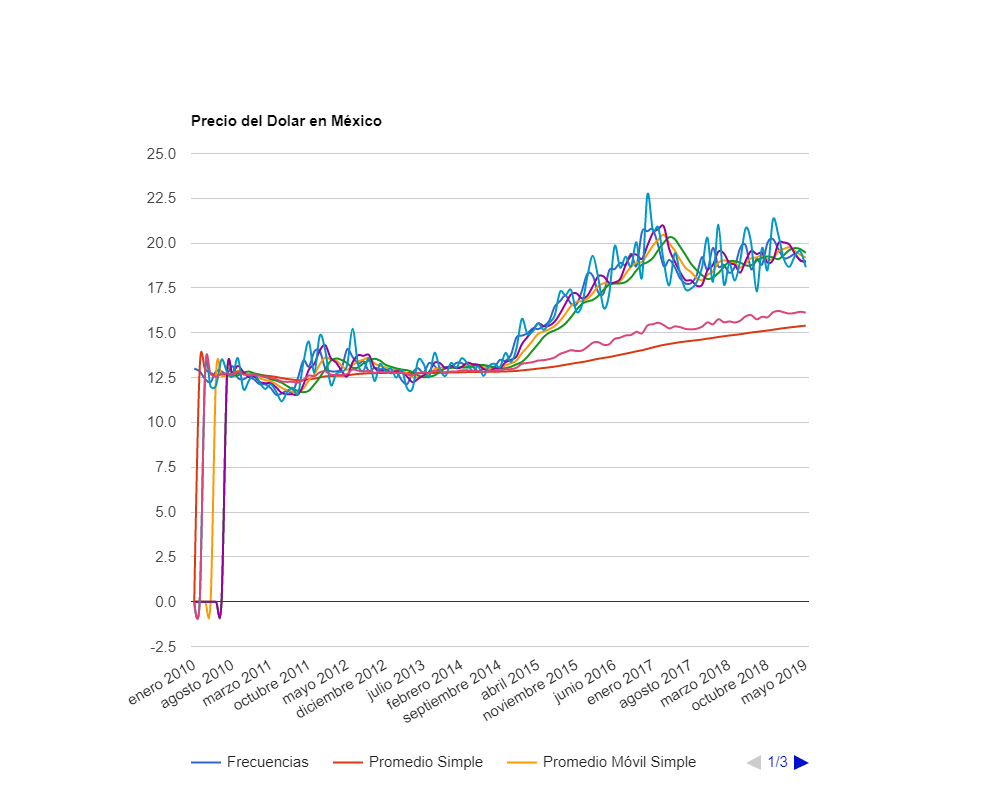
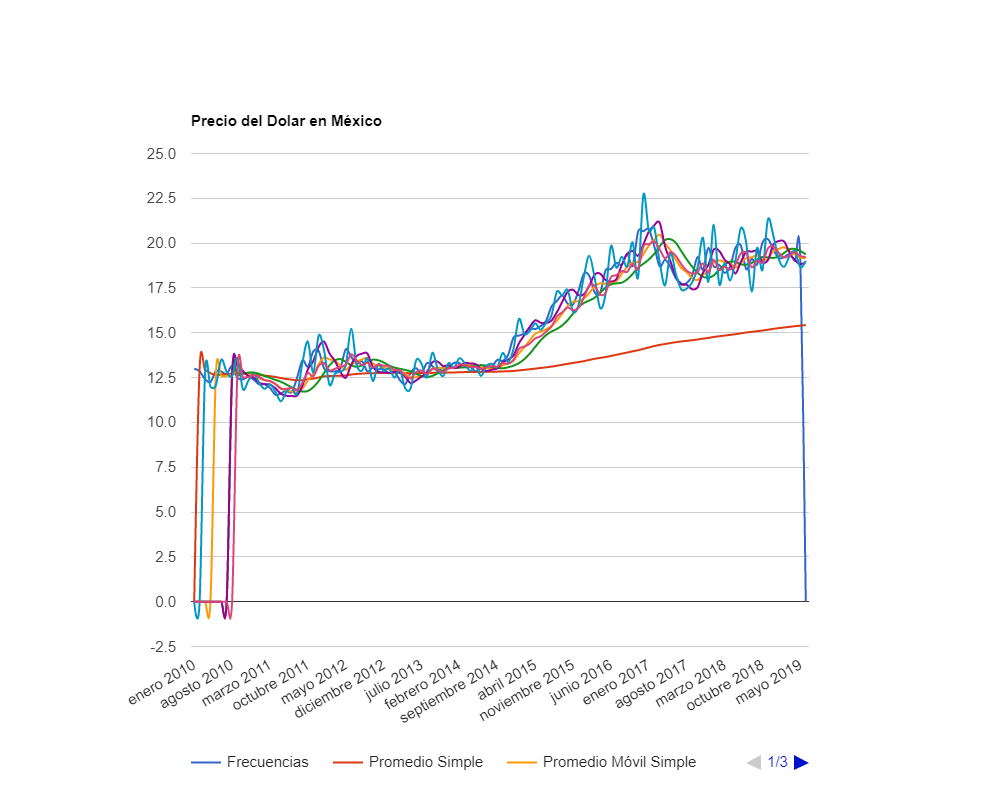
Dolar liston de tu pelo

Changed region(s): [[0.186, 0.25, 0.806, 0.7812], [0.186, 0.8125, 0.806, 0.9062]]

diff --git a/dss/templates/graficaDolar.html b/dss/templates/graficaDolar.html
@@ -2,7 +2,7 @@
 <!DOCTYPE html>
 <html lang="en">
 <head>
-	<title>Gráfica</title>
+	<title>Gráfica Dolar</title>
 	<meta charset="UTF-8">
 	<meta name="viewport" content="width=device-width, initial-scale=1">
 <!--===============================================================================================-->	
@@ -177,11 +177,10 @@
     <script class="modal">
         function alert(){
           swal({
-            title: "Se ha generado y descargado tu reporte en formato PDF",
-            text: "Revisa tu carpeta de descargas",
+            title: "Se abrirá una nueva página donde verás el reporte.",
+            text: "Una vez abierto podrás descargarlo en formato pdf.",
             icon: "success",
             confirm: "Aceptar"
-        
           })
         
         }
@@ -208,6 +207,7 @@
 		<div class="container-login ">
 			<div class="wrap-login">
         <h3>La mejor opcion es {{mejor.Nombre}} con un promedio de errores de {{mejor.valor}}</h3>
+        <h4>Tipo de comportamiento: <strong>Aleatorio</strong></h4>
 				<div class="centrar">
 						<div class="grafica" id="curve_chart" style="width: 1000px; height: 800px;"></div>
 				</div>

diff --git a/dss/templates/tablasDolar.html b/dss/templates/tablasDolar.html
@@ -2,7 +2,7 @@
 <!DOCTYPE html>
 <html lang="en">
 <head>
-	<title>Datos</title>
+	<title>Datos Dolar</title>
 	<meta charset="UTF-8">
 	<meta name="viewport" content="width=device-width, initial-scale=1">
 <!--===============================================================================================-->	
@@ -29,8 +29,9 @@
 	<nav class="navbar navbar-light nav">
 	  <a class="navbar-brand">SISTEMA DSS ORIENTADO A LOS DATOS</a>
 	  <form class="form-inline">
-	    <button class="btn " type="submit">Página principal</button>
-	    <button class="btn " type="submit">Cerrar sesión</button>
+	    <a href="{% url 'usuario:acerca' %}" class="btnbar" >Acerca de</a>
+	    <a href="{% url 'usuario:variables' request.user.username %}" class="btnbar">Página principal</a>
+	    <a href="{% url 'usuario:logout' %}" class="btnbar">Cerrar sesión</a>
 	  </form>
 	</nav>
 	

diff --git a/dss/templates/configuraciones.html b/dss/templates/configuraciones.html
@@ -2,7 +2,7 @@
 <!DOCTYPE html>
 <html lang="en">
 <head>
-	<title>Configuraciones</title>
+	<title>Configuraciones PIB</title>
 	<meta charset="UTF-8">
 	<meta name="viewport" content="width=device-width, initial-scale=1">
 <!--===============================================================================================-->	
@@ -40,6 +40,7 @@
 				<form class="login-form validate-form centrado" style="margin-top: -100px !important; margin-bottom: 50px;" method="POST">
 					{% csrf_token %}
 					<span class="login-form-title" style="font-family: Montserrat-Bold; color: #4E5B6D;">
+						PIB <br>
 						Ingrese las configuraciones
 					</span>
 

diff --git a/dss/templates/configuracionesDolar.html b/dss/templates/configuracionesDolar.html
@@ -2,7 +2,7 @@
 <!DOCTYPE html>
 <html lang="en">
 <head>
-	<title>Configuraciones</title>
+	<title>Configuraciones Dolar</title>
 	<meta charset="UTF-8">
 	<meta name="viewport" content="width=device-width, initial-scale=1">
 <!--===============================================================================================-->	

diff --git a/dss/templates/grafica.html b/dss/templates/grafica.html
@@ -2,7 +2,7 @@
 <!DOCTYPE html>
 <html lang="en">
 <head>
-	<title>Gráfica</title>
+	<title>Gráfica PIB</title>
 	<meta charset="UTF-8">
 	<meta name="viewport" content="width=device-width, initial-scale=1">
 <!--===============================================================================================-->	

diff --git a/dss/templates/tablas.html b/dss/templates/tablas.html
@@ -2,7 +2,7 @@
 <!DOCTYPE html>
 <html lang="en">
 <head>
-	<title>Datos</title>
+	<title>Datos PIB</title>
 	<meta charset="UTF-8">
 	<meta name="viewport" content="width=device-width, initial-scale=1">
 <!--===============================================================================================-->	

diff --git a/dss/templates/pdfDolar.html b/dss/templates/pdfDolar.html
@@ -3,7 +3,7 @@
 <html>
 <head>
     <meta charset="utf-8">
-    <title>Reporte Alumno</title>
+    <title>Reporte Dolar</title>
     <link rel="stylesheet" href="{% static 'css/estilopdf.css' %}">
     <style type="text/css">
         @page {

diff --git a/dss/templates/pdfPIB.html b/dss/templates/pdfPIB.html
@@ -3,7 +3,7 @@
 <html>
 <head>
     <meta charset="utf-8">
-    <title>Reporte Alumno</title>
+    <title>Reporte PIB</title>
     <link rel="stylesheet" href="{% static 'css/estilopdf.css' %}">
     <style type="text/css">
         @page {

diff --git a/dss/static/css/main.css b/dss/static/css/main.css
@@ -363,7 +363,7 @@ iframe {
 
 @media (max-width: 992px) {
 	.wrap-login {
-		padding: 177px 90px 33px 85px;
+		padding: 100px 90px 33px 85px;
 	}
 
 	.login-pic {

diff --git a/dss/app/Usuario/views.py b/dss/app/Usuario/views.py
@@ -102,7 +102,10 @@ def config_dolar(request, username):
             for d in dolar:
                 periodos.append(d.periodo)
                 frecuencias.append(float(d.frecuencia))
-
+            periodos.append('junio 2019')
+            frecuencias.append(0)
+            print(len(frecuencias))
+            print(len(periodos))
             acumuladorPS = 0
             contador = 1
             ps = []
@@ -110,8 +113,8 @@ def config_dolar(request, username):
             k = int(k)
             j = int(j)
             m = int(m)
-            for i in range(1, int(n)):
-                acumuladorPS = acumuladorPS + (dolar[i - 1].frecuencia)
+            for i in range(0, len(frecuencias) - 1):
+                acumuladorPS = acumuladorPS + (dolar[i].frecuencia)
                 ps.append(truncate((acumuladorPS / contador),5))
                 resta = abs(float(dolar[i].frecuencia)-float((acumuladorPS / contador)))
                 eapsd.append(truncate(resta, 5))
@@ -121,7 +124,7 @@ def config_dolar(request, username):
             acumuladorPSM = 0
             pms = []
             eapms = [] # errores absolutos
-            for x in range(int(k)+1, int(n)+1):
+            for x in range(int(k)+1, len(frecuencias)+1):
                 auxiliar = x
                 for i in range(((auxiliar-int(k))-1), auxiliar-1):
                     acumuladorPSM = acumuladorPSM + (dolar[i].frecuencia)
@@ -162,7 +165,7 @@ def config_dolar(request, username):
             
             ptmac = []
             eaptmac = []# errores absolutos
-            for x in range(1, len(frecuencias)):
+            for x in range(1, len(frecuencias) - 1):
                 ptmac.append(truncate((float(frecuencias[x])+(float(frecuencias[x])*(tmac[x-1]/100))),5))
             
             psel = []
@@ -296,6 +299,16 @@ def config_dolar(request, username):
                 tmac.insert(0,0)
             for c in range(2):
                 ptmac.insert(0,0)
+
+            print(len(ps))
+            print(len(pms))
+            print(len(pmd))
+            print(len(As))
+            print(len(Bs))
+            print(len(pmda))
+            print(len(tmac))
+            print(len(ptmac))
+            print(len(psel))
 
             errores = [
                 {'valor':error_medio_ps,'Nombre':'Promedio simple'},
@@ -642,8 +655,8 @@ def configuraciones_pib(request,username):
                             epmda.insert(103,0)
                             epsel.insert(103,0)
                             epmd.insert(103,0)
-                            epms[102] = 0
-                            eps[102] = 0
+                            # epms[102] = 0
+                            # eps[102] = 0
                             ptmac.insert(0,0)
                             ptmac.insert(0,0)
                             eptmac.insert(0,0)
